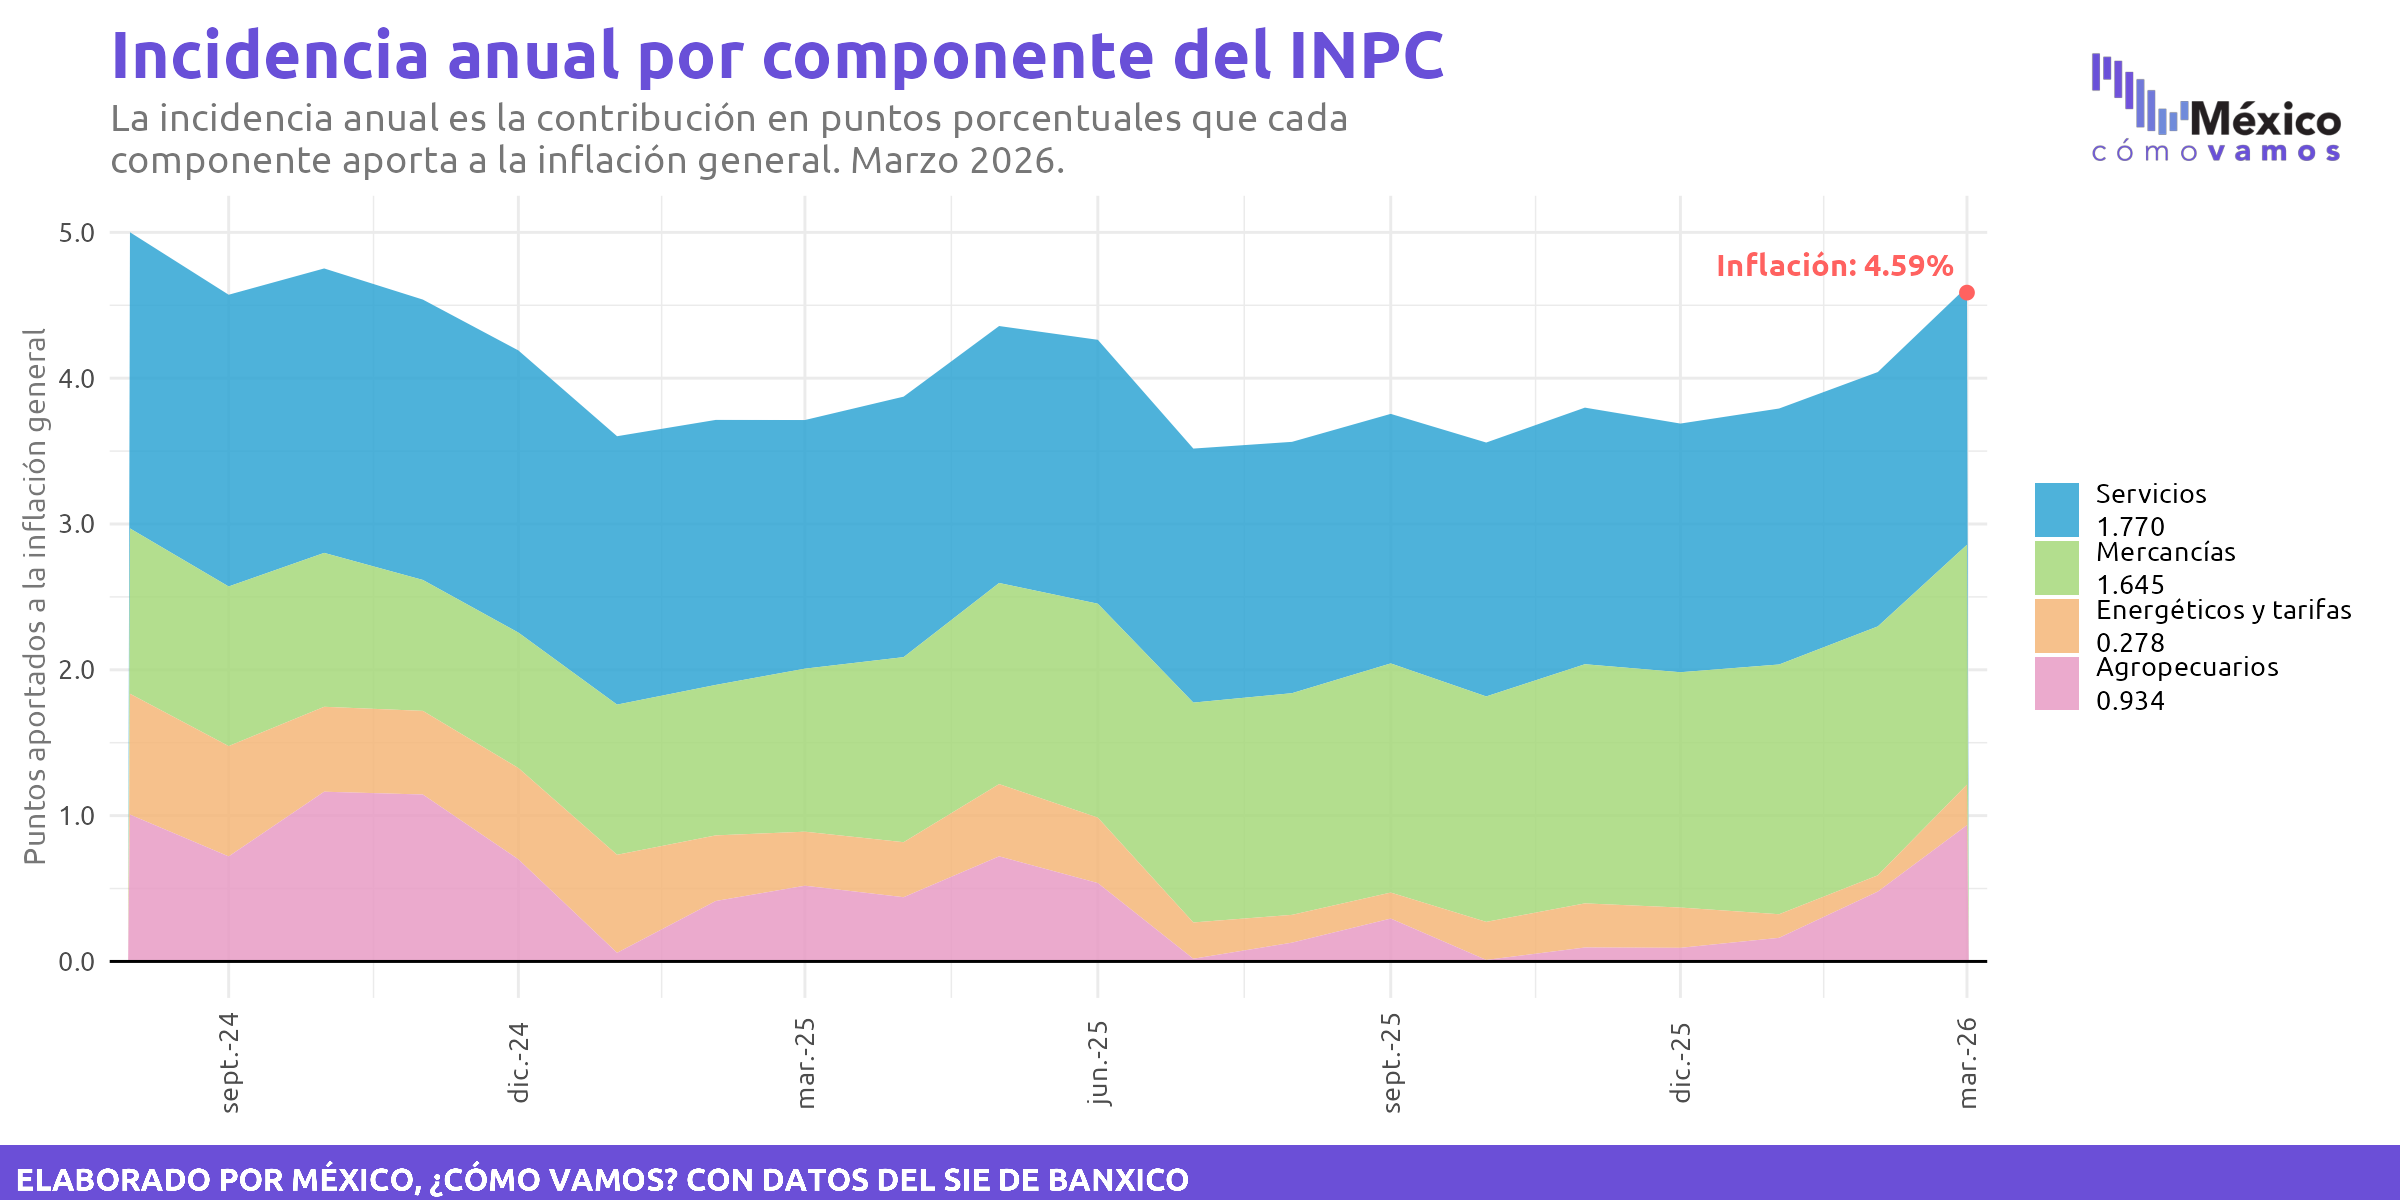
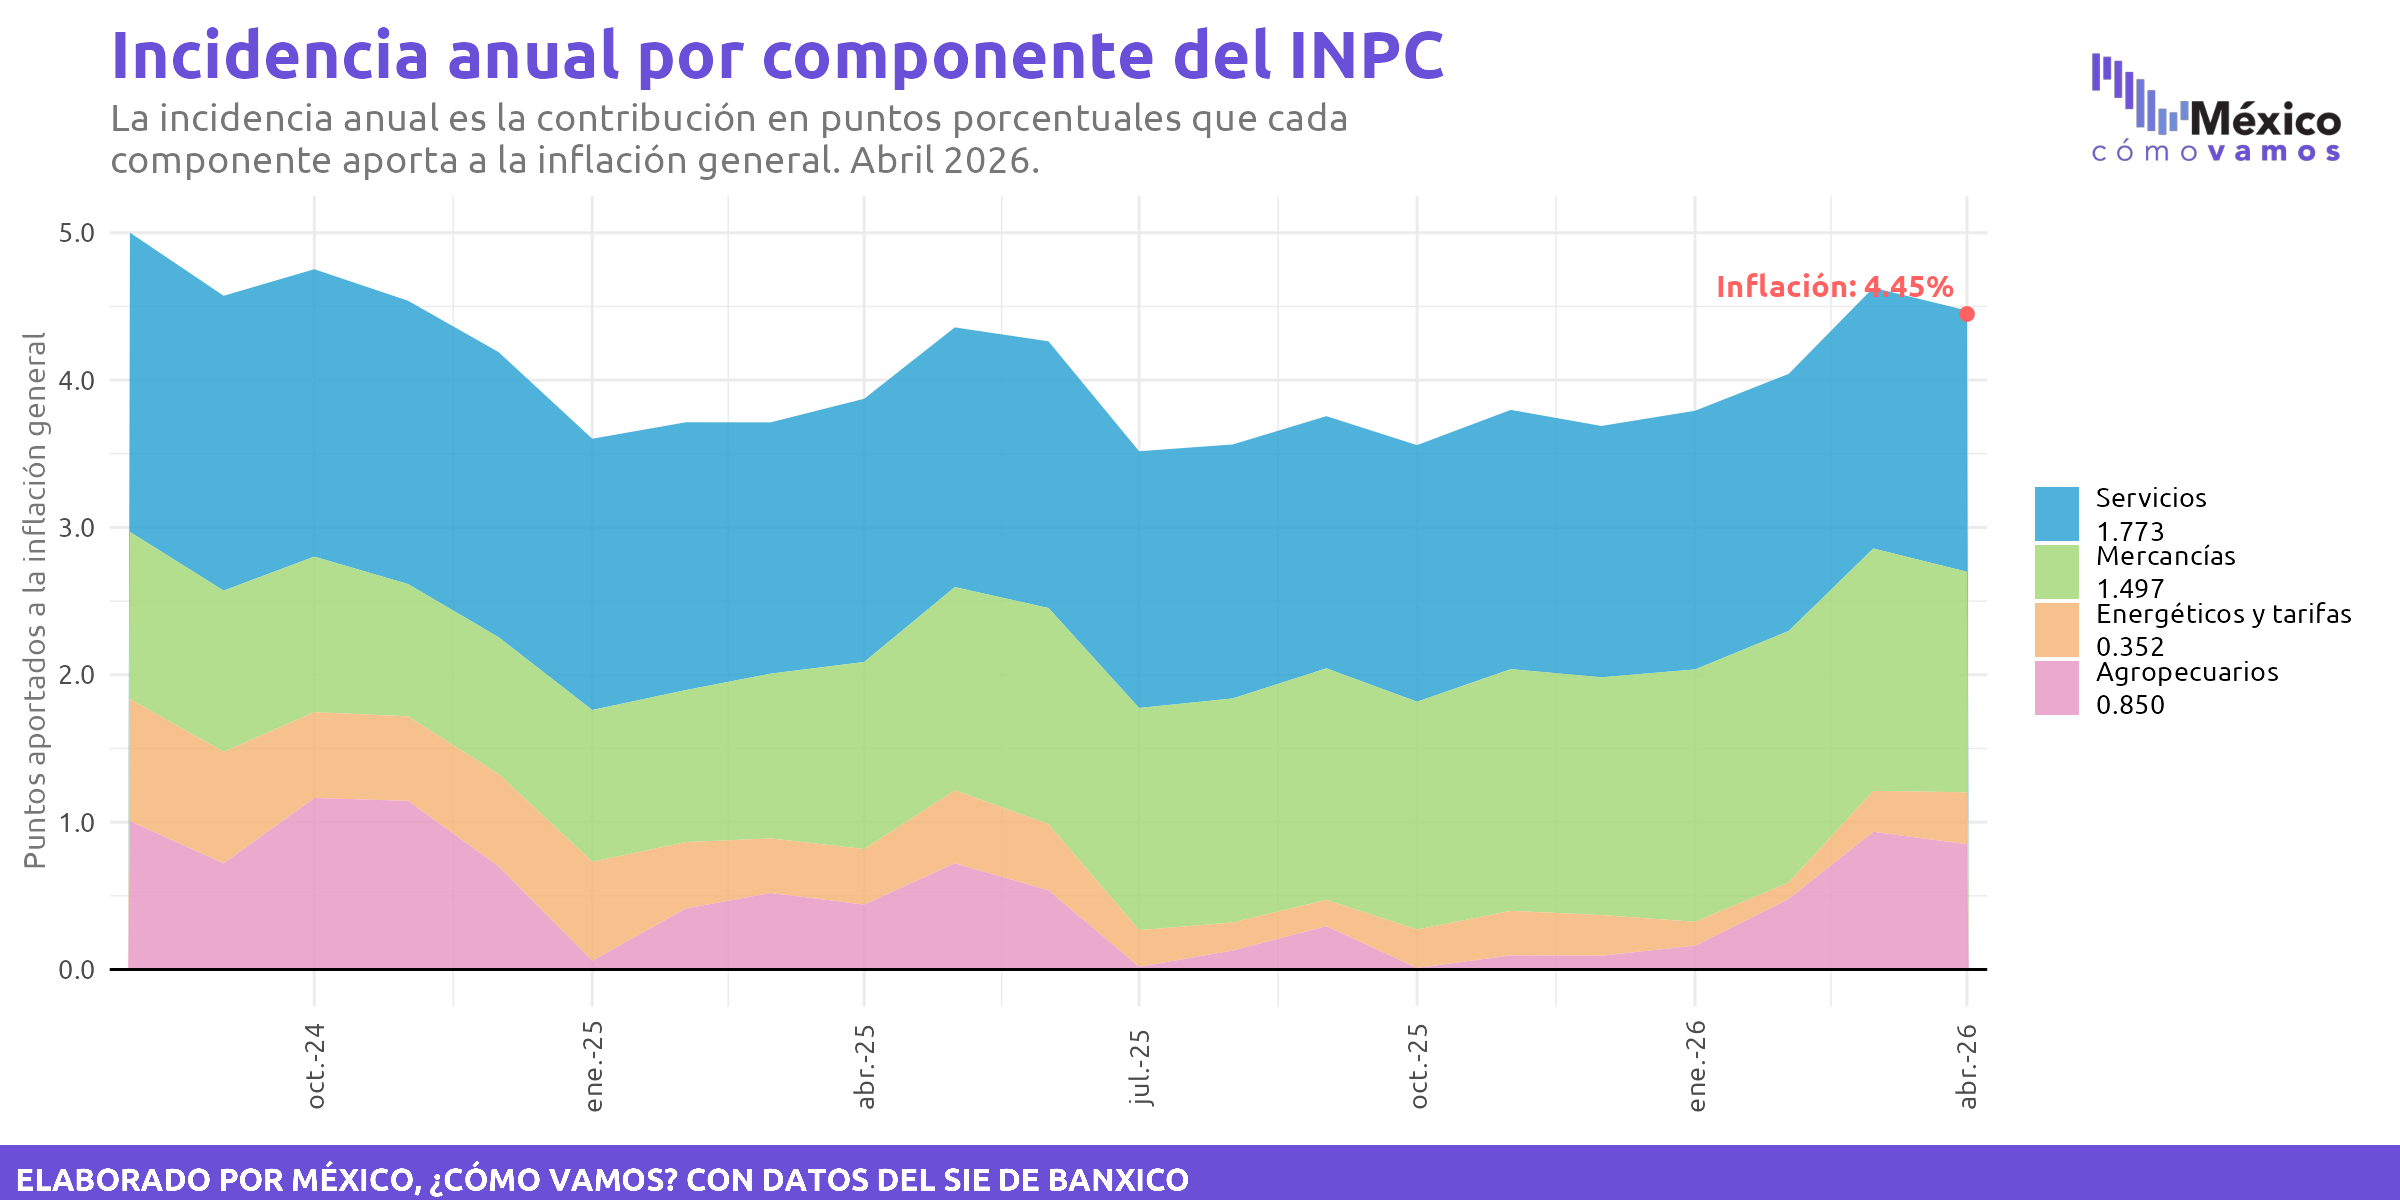
incidencia, abril 2026

diff --git a/04_infobites/01_06_tweet_incidencia_mensual.html b/04_infobites/01_06_tweet_incidencia_mensual.html
@@ -42,7 +42,7 @@
   </article>
   <article class="tweet">
     <header class="tweet-num">Tweet 2 / 3</header>
-    <p class="tweet-texto" id="tweet-texto-2">Los conceptos del Índice Nacional de Precios al Consumidor con mayor incidencia en la inflación anual observada son otros servicios, las frutas y verduras y los alimentos, bebidas y tabaco. Otros servicios presentan además una variación anual de 5.3% en el nivel de precios.</p>
+    <p class="tweet-texto" id="tweet-texto-2">Los conceptos del Índice Nacional de Precios al Consumidor con mayor incidencia en la inflación anual observada son otros servicios, las frutas y verduras y los alimentos, bebidas y tabaco. Otros servicios presentan además una variación anual de 5.2% en el nivel de precios.</p>
     <img src="01_05_incidencia_anual_concepto_mensual.png" alt="Incidencia anual por componente y concepto del INPC">
     <p class="conteo">Caracteres: 274 / 280</p>
     <div class="acciones">
@@ -52,7 +52,7 @@
   </article>
   <article class="tweet">
     <header class="tweet-num">Tweet 3 / 3</header>
-    <p class="tweet-texto" id="tweet-texto-3">El principal componente de la inflación durante este mes fue el de servicios de la inflación subyacente, que aportó 1.8 puntos del 4.6% de la inflación anual de marzo (un 38.6% del total).</p>
+    <p class="tweet-texto" id="tweet-texto-3">El principal componente de la inflación durante este mes fue el de servicios de la inflación subyacente, que aportó 1.8 puntos del 4.4% de la inflación anual de abril (un 39.9% del total).</p>
     <img src="01_04_incidencia_anual_componente_mensual.png" alt="Incidencia anual por componente del INPC">
     <p class="conteo">Caracteres: 188 / 280</p>
     <div class="acciones">